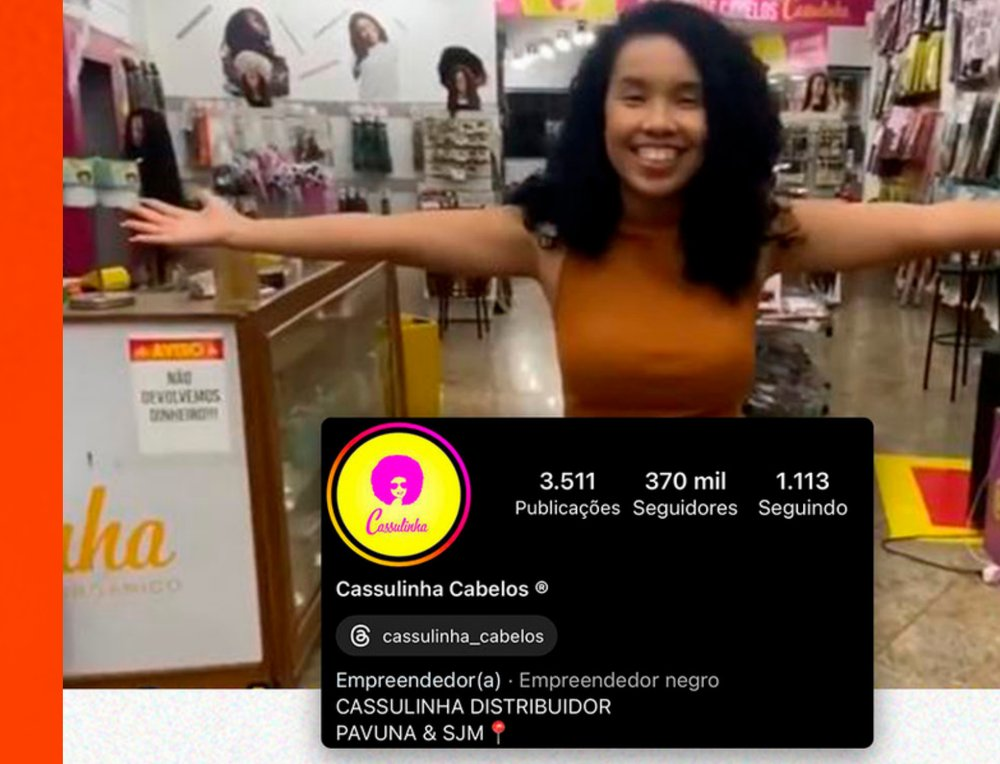
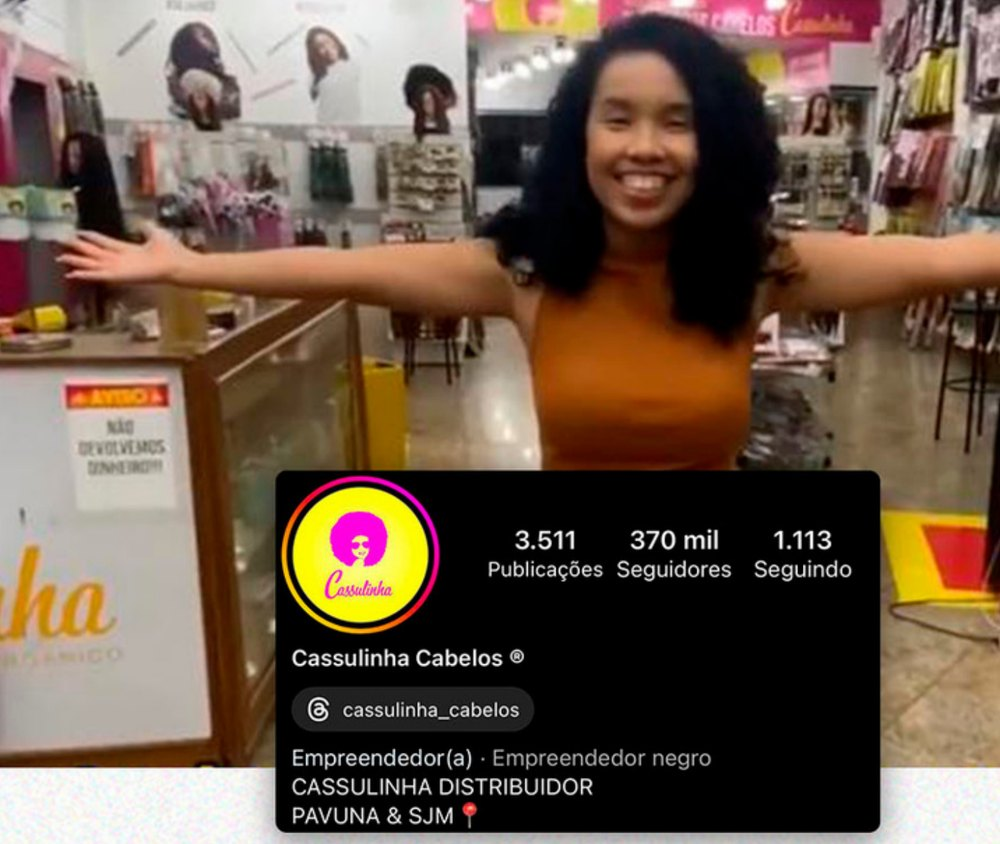
Recupera o dinamismo editorial da seção SocialDOMination sem esconder informações
Substitui a composição linear (cards empilhados) por uma composição em
camadas, mantendo os números e provas já validados intocados:

- Cada case agora tem uma foto/print principal levemente inclinado, com
  um card ou badge de resultado sobrepondo apenas as áreas decorativas
  (nunca o texto/dado importante do print)
- Entrada em scroll com fade + leve rotação/escala que se estabiliza
  (a foto principal entra primeiro, o card de resultado entra em seguida)
- Paralaxe sutil: foto, print e card se movem em velocidades levemente
  diferentes durante o scroll (JS genérico via atributo data-parallax)
- Flutuação contínua muito sutil nos elementos de destaque (cards/badges)
- Cassulinha: novo recorte da foto (melhor centralizado, sem faixa
  laranja) + card "370 mil seguidores" compacto no canto superior
  direito, sobre a área decorativa da loja — não mais sobre o card do
  Instagram
- Reel: "4,7 mi" passa a ser o elemento hero da composição, com o print
  de métricas e o depoimento da Thaís abaixo, levemente escalonados
- MANU: badge "+6 clientes novos" flutuando acima do print, sem cobrir
  os números do perfil

Corrige também um overflow horizontal de 3px em telas de 768px causado
pelo deslocamento negativo do card da Cassulinha.

diff --git a/index.html b/index.html
@@ -585,31 +585,71 @@
           </div>
 
           <div class="proof-cases">
-            <div class="proof-case">
-              <img class="proof-case__img" src="assets/proof/social-cassulinha.jpg" alt="Perfil da Cassulinha Cabelos no Instagram: 3.511 publicações, 370 mil seguidores, 1.113 seguindo">
-              <div class="proof-case__result">
-                <strong class="proof-counter" data-count-to="370" data-suffix=" mil">0</strong>
-                <div class="proof-case__result-text">
-                  <span>seguidores no Instagram</span>
-                  <small>Uma marca de beleza que saiu de 10 mil para se tornar a maior do Brasil no segmento.</small>
+            <!-- Case 1: Cassulinha — foto+perfil (camada 1) + resultado (camada 2) -->
+            <div class="proof-case proof-case--layered proof-case--cassulinha">
+              <div class="proof-layer proof-layer--main reveal" style="--stagger:0">
+                <div class="proof-layer__inner" style="--tilt:-2deg" data-parallax="10">
+                  <img class="proof-layer__img" src="assets/proof/social-cassulinha.jpg" alt="Perfil da Cassulinha Cabelos no Instagram: 3.511 publicações, 370 mil seguidores, 1.113 seguindo">
+                </div>
+              </div>
+              <div class="proof-layer proof-layer--accent reveal" style="--stagger:2">
+                <div class="proof-layer__inner proof-layer__inner--float" style="--tilt:3deg">
+                  <div class="proof-case__result proof-case__result--compact">
+                    <strong class="proof-counter" data-count-to="370" data-suffix=" mil">0</strong>
+                    <span>seguidores</span>
+                  </div>
+                </div>
+              </div>
+              <p class="proof-case__caption">Uma marca que saiu de <strong>10 mil</strong> para <strong>370 mil</strong> seguidores — a maior do Brasil no segmento.</p>
+            </div>
+
+            <!-- Case 2: Sandes Motos — antes/depois com a seta já integrada ao print -->
+            <div class="proof-case proof-case--layered proof-case--sandes">
+              <div class="proof-layer proof-layer--main reveal" style="--stagger:0">
+                <div class="proof-layer__inner" style="--tilt:2.5deg" data-parallax="8">
+                  <img class="proof-layer__img proof-layer__img--tall" src="assets/proof/social-sandes-before-after.jpg" alt="Perfil da Sandes Motos no Instagram: antes com 609 seguidores, depois com 16,6 mil seguidores">
+                </div>
+              </div>
+              <p class="proof-case__caption">De <strong>609</strong> para <strong>16,6 mil</strong> seguidores no Instagram.</p>
+            </div>
+
+            <!-- Case 3: resultado orgânico do Reel — número como protagonista + provas de apoio -->
+            <div class="proof-case proof-case--layered proof-case--reel">
+              <div class="proof-layer proof-layer--accent proof-layer--hero reveal" style="--stagger:0">
+                <div class="proof-layer__inner proof-layer__inner--float" style="--tilt:-2deg">
+                  <div class="proof-case__result proof-case__result--hero">
+                    <strong class="proof-counter" data-count-to="4.7" data-decimals="1" data-suffix=" mi">0</strong>
+                    <div class="proof-case__result-text">
+                      <span>reproduções orgânicas</span>
+                      <small>Um Reel, sem tráfego pago — só alcance e conteúdo.</small>
+                    </div>
+                  </div>
+                </div>
+              </div>
+              <div class="proof-layer proof-layer--main reveal" style="--stagger:1">
+                <div class="proof-layer__inner" style="--tilt:-1.5deg" data-parallax="8">
+                  <img class="proof-layer__img proof-layer__img--wide" src="assets/proof/social-reel-stats.jpg" alt="Insights do Reel: 4.713.874 reproduções, 283.327 curtidas, 1.442 comentários, 133.608 compartilhamentos, 5.125 salvamentos">
+                </div>
+              </div>
+              <div class="proof-layer proof-layer--main reveal" style="--stagger:2">
+                <div class="proof-layer__inner" style="--tilt:1.5deg" data-parallax="6">
+                  <img class="proof-layer__img proof-layer__img--wide" src="assets/proof/social-thais-testimonial.jpg" alt="Comentário real de uma cliente elogiando o resultado do trabalho no perfil">
                 </div>
               </div>
             </div>
 
-            <div class="proof-case">
-              <img class="proof-case__img proof-case__img--tall" src="assets/proof/social-sandes-before-after.jpg" alt="Perfil da Sandes Motos no Instagram: antes com 609 seguidores, depois com 16,6 mil seguidores">
-              <p class="proof-case__caption">De <strong>609</strong> para <strong>16,6 mil</strong> seguidores no Instagram.</p>
-            </div>
-
-            <div class="proof-case proof-case--reel">
-              <img class="proof-case__img proof-case__img--wide" src="assets/proof/social-reel-stats.jpg" alt="Insights de um Reel com mais de 4,7 milhões de reproduções, sem tráfego pago">
-              <img class="proof-case__quote" src="assets/proof/social-thais-testimonial.jpg" alt="Comentário real de uma cliente elogiando o resultado do trabalho no perfil">
-              <p class="proof-case__caption"><strong>4,7 mi</strong> de reproduções orgânicas, sem tráfego pago.</p>
-            </div>
-
-            <div class="proof-case">
-              <img class="proof-case__img proof-case__img--tall" src="assets/proof/social-manu-feed.jpg" alt="Perfil e grade de conteúdo organizados para uma nutricionista esportiva">
-              <p class="proof-case__caption">Perfil e feed reorganizados → <strong>6 clientes novos</strong>.</p>
+            <!-- Case 4: MANU — perfil + feed reorganizados -->
+            <div class="proof-case proof-case--layered proof-case--manu">
+              <div class="proof-layer proof-layer--main reveal" style="--stagger:0">
+                <div class="proof-layer__inner" style="--tilt:-1.5deg" data-parallax="8">
+                  <img class="proof-layer__img proof-layer__img--tall" src="assets/proof/social-manu-feed.jpg" alt="Perfil e grade de conteúdo organizados para uma nutricionista esportiva">
+                </div>
+              </div>
+              <div class="proof-layer proof-layer--accent reveal" style="--stagger:2">
+                <div class="proof-layer__inner proof-layer__inner--float" style="--tilt:3deg">
+                  <p class="proof-case__badge"><strong>+6</strong> clientes novos</p>
+                </div>
+              </div>
             </div>
           </div>
 

diff --git a/css/style.css b/css/style.css
@@ -1625,33 +1625,60 @@ h1, h2, h3, h4 {
   font-weight: 600;
 }
 
-/* ---- SocialDOMination: cases em sequência, cada um com seu próprio tratamento ---- */
+/* ---- SocialDOMination: composição editorial em camadas, cada case com sua própria história ---- */
 .proof-cases {
   display: flex;
   flex-direction: column;
-  gap: 22px;
+  gap: 34px;
   margin-bottom: 20px;
 }
 .proof-case { display: flex; flex-direction: column; }
-.proof-case__img {
+.proof-case--layered { position: relative; }
+
+/* camada base: entrada com fade + leve rotação/escala que se estabiliza */
+.proof-layer.reveal {
+  transition: opacity 0.8s var(--ease), transform 0.8s var(--ease);
+}
+.proof-layer--main.reveal { opacity: 0; transform: translateY(22px) rotate(5deg) scale(0.95); }
+.proof-layer--main.reveal.is-visible { opacity: 1; transform: translateY(0) rotate(0deg) scale(1); }
+.proof-layer--accent.reveal { opacity: 0; transform: translateY(18px) rotate(-7deg) scale(0.9); }
+.proof-layer--accent.reveal.is-visible { opacity: 1; transform: translateY(0) rotate(0deg) scale(1); }
+@media (prefers-reduced-motion: reduce) {
+  .proof-layer.reveal, .proof-layer--main.reveal, .proof-layer--accent.reveal { transform: none; }
+}
+
+/* camada de inclinação permanente + paralaxe sutil no scroll (aplicada via JS em --parallax-y) */
+.proof-layer__inner {
+  transform: translateY(var(--parallax-y, 0px)) rotate(var(--tilt, 0deg));
+}
+.proof-layer__inner--float { animation: proofLayerFloat 6.5s ease-in-out infinite; }
+@keyframes proofLayerFloat {
+  0%, 100% { margin-top: 0; }
+  50% { margin-top: -7px; }
+}
+@media (prefers-reduced-motion: reduce) {
+  .proof-layer__inner--float { animation: none; }
+}
+
+.proof-layer__img {
   width: 100%;
   display: block;
   border-radius: var(--radius-md);
   border: 1px solid var(--line-on-ink);
-  box-shadow: 0 16px 34px -20px rgba(0, 0, 0, 0.6);
+  box-shadow: 0 20px 40px -20px rgba(0, 0, 0, 0.65);
 }
-.proof-case__img--tall { max-height: 340px; object-fit: cover; object-position: top; }
-.proof-case__img--wide { object-fit: contain; background: var(--ink); }
+.proof-layer__img--tall { max-height: 340px; object-fit: cover; object-position: top; }
+.proof-layer__img--wide { object-fit: contain; background: var(--ink); }
 
 .proof-case__result {
   display: flex;
   align-items: center;
   gap: 14px;
-  margin-top: 12px;
   padding: 14px 16px;
   border-radius: var(--radius-md);
-  background: var(--ink-3);
-  border-left: 3px solid var(--orange);
+  background: var(--ink);
+  border: 1px solid var(--line-on-ink);
+  box-shadow: 0 20px 40px -16px rgba(0, 0, 0, 0.7);
 }
 .proof-counter {
   font-family: var(--font-display);
@@ -1665,13 +1692,62 @@ h1, h2, h3, h4 {
 .proof-case__result-text span { font-weight: 700; font-size: 0.86rem; color: var(--text-on-ink); }
 .proof-case__result-text small { color: var(--text-on-ink-dim); font-size: 0.78rem; line-height: 1.4; }
 
+.proof-case__result--compact {
+  flex-direction: column;
+  align-items: flex-start;
+  gap: 2px;
+  padding: 12px 14px;
+}
+.proof-case__result--compact span { font-size: 0.74rem; color: var(--text-on-ink-dim); }
+
 .proof-case__caption {
-  margin-top: 10px;
+  margin-top: 12px;
   font-size: 0.82rem;
   color: var(--text-on-ink-dim);
   line-height: 1.4;
 }
 .proof-case__caption strong { color: var(--orange-soft); }
+
+.proof-case__badge {
+  display: inline-flex;
+  align-items: baseline;
+  gap: 6px;
+  padding: 10px 16px;
+  border-radius: 100px;
+  background: var(--ink);
+  border: 1px solid var(--line-on-ink);
+  box-shadow: 0 16px 32px -14px rgba(0, 0, 0, 0.7);
+  font-size: 0.85rem;
+  color: var(--text-on-ink);
+  white-space: nowrap;
+}
+.proof-case__badge strong { font-family: var(--font-display); font-size: 1.05rem; color: var(--orange); }
+
+/* Case 1 — Cassulinha: card compacto no canto superior direito, sobre a área decorativa da foto */
+.proof-case--cassulinha { padding-top: 20px; padding-right: 16%; }
+.proof-case--cassulinha .proof-layer--accent {
+  position: absolute;
+  top: -14px; right: -4%;
+  width: 40%;
+  z-index: 3;
+}
+
+/* Case 3 — Reel: número em destaque + provas de apoio levemente escalonadas */
+.proof-case--reel .proof-layer--hero { margin-bottom: 14px; }
+.proof-case--reel .proof-case__result--hero {
+  padding: 16px 20px;
+}
+.proof-case--reel .proof-case__result--hero .proof-counter { font-size: clamp(1.9rem, 7vw, 2.4rem); }
+.proof-case--reel .proof-layer--main:nth-of-type(2) .proof-layer__inner { margin-left: -3%; }
+.proof-case--reel .proof-layer--main:last-child .proof-layer__inner { margin-top: -10px; margin-right: -3%; }
+
+/* Case 4 — MANU: badge de resultado sobrepondo o canto superior direito do print */
+.proof-case--manu { padding-top: 30px; padding-right: 6%; }
+.proof-case--manu .proof-layer--accent {
+  position: absolute;
+  top: -30px; right: -6%;
+  z-index: 3;
+}
 
 .proof-case__quote {
   display: block;

diff --git a/js/main.js b/js/main.js
@@ -157,6 +157,37 @@
     updateCrencaParallax();
   }
 
+  /* ------------------------------- Parallax sutil (cases de prova social) ------- */
+  const proofParallaxEls = Array.from(document.querySelectorAll('[data-parallax]'));
+  if (proofParallaxEls.length && !reduceMotion) {
+    let proofTicking = false;
+    const updateProofParallax = () => {
+      const vh = window.innerHeight || document.documentElement.clientHeight;
+      proofParallaxEls.forEach((el) => {
+        const container = el.closest('.proof-case') || el;
+        const rect = container.getBoundingClientRect();
+        const center = rect.top + rect.height / 2 - vh / 2;
+        const range = vh / 2 + rect.height / 2;
+        const progress = Math.max(-1, Math.min(1, center / range));
+        const amount = Number(el.dataset.parallax) || 0;
+        el.style.setProperty('--parallax-y', `${(progress * amount).toFixed(2)}px`);
+      });
+      proofTicking = false;
+    };
+    window.addEventListener(
+      'scroll',
+      () => {
+        if (!proofTicking) {
+          proofTicking = true;
+          requestAnimationFrame(updateProofParallax);
+        }
+      },
+      { passive: true }
+    );
+    window.addEventListener('resize', updateProofParallax);
+    updateProofParallax();
+  }
+
   /* ------------------------------- Ecossistema de serviços (rede interativa) ----- */
   const serviceNetwork = document.getElementById('serviceNetwork');
   if (serviceNetwork) {
